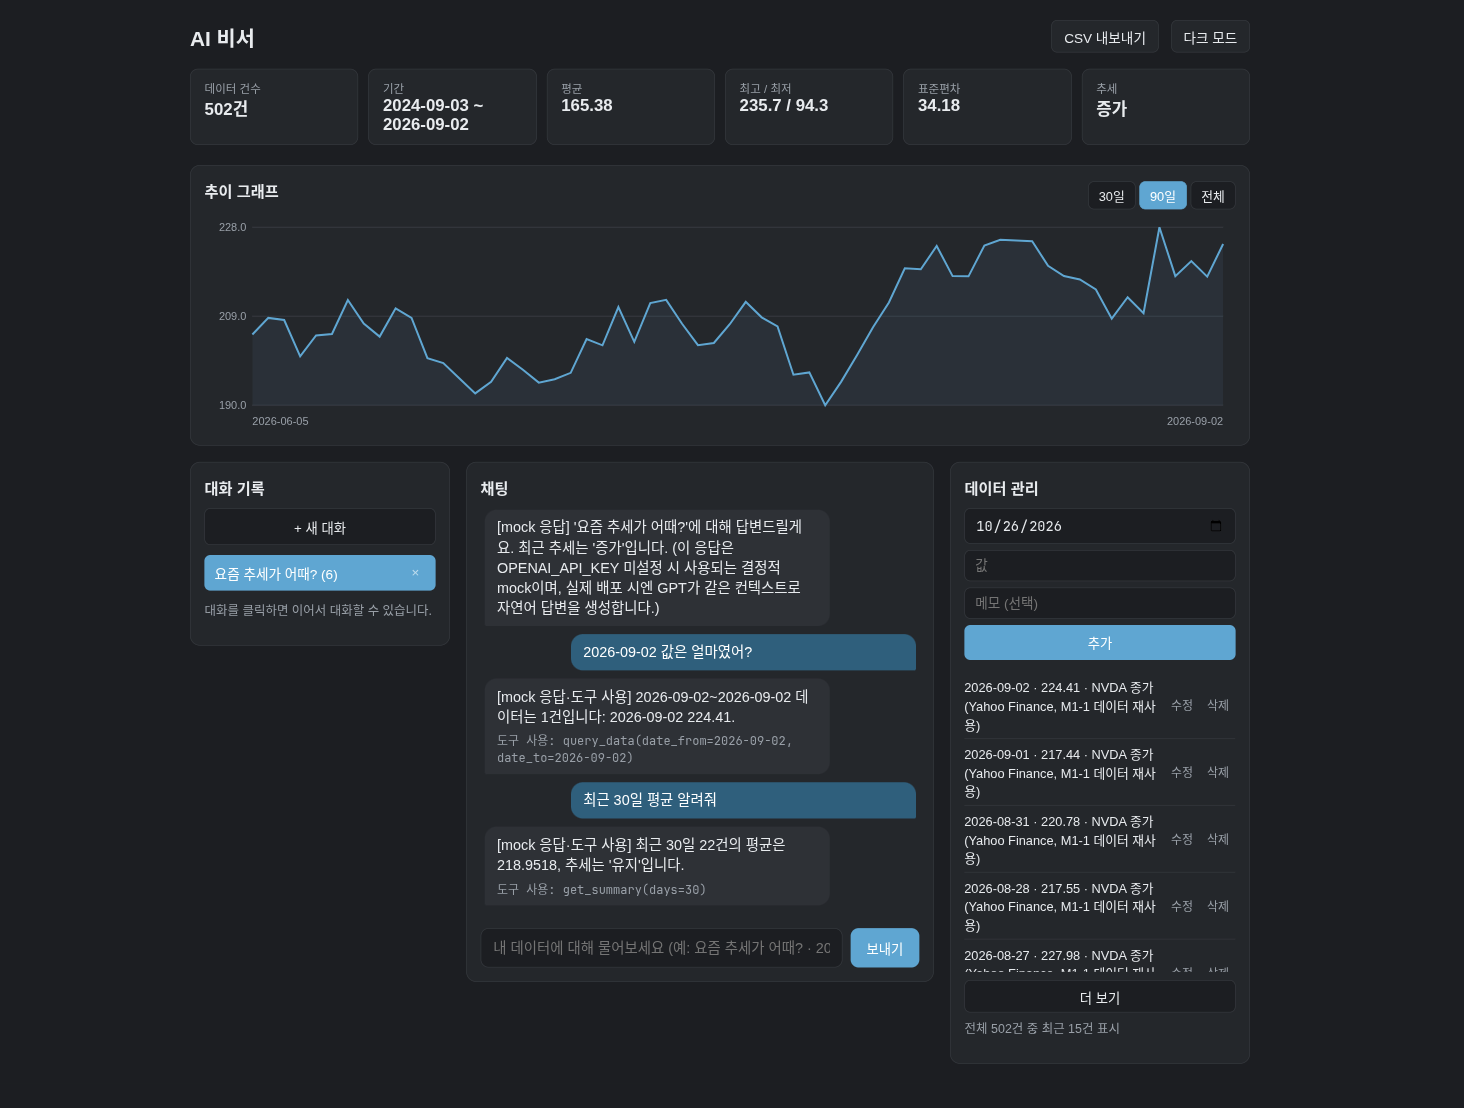
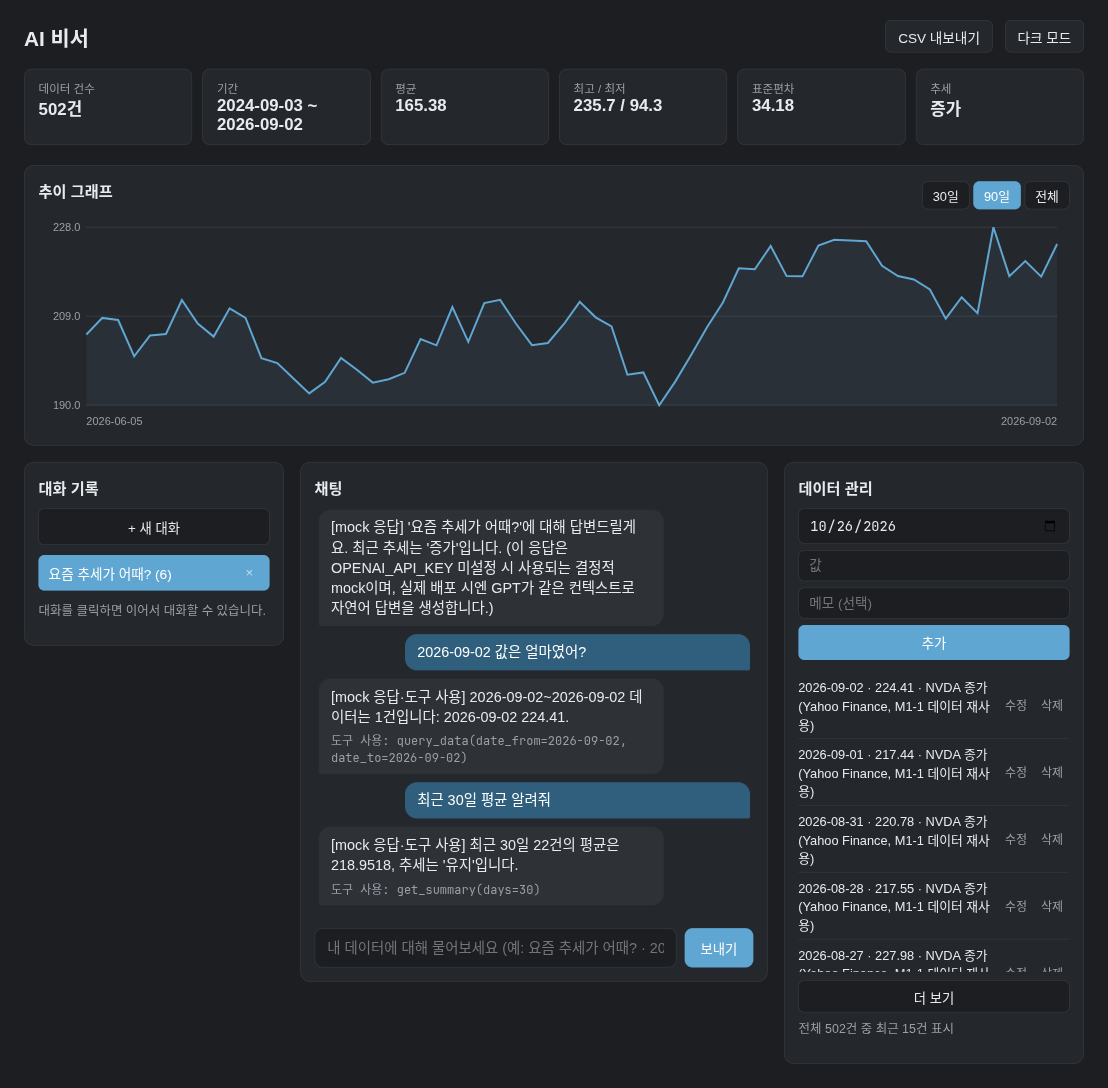
docs: README 눈검수 반영 — 로고 흰 타일, 다크 모드 캡처 폭, 휴대폰 첫 화면 새 이름
GitHub 화면에서 직접 보고 고쳤다.
- 로고: 투명 배경의 남색 아이콘이 GitHub 다크 테마에서 묻혔다 → 흰 둥근 타일(앱 아이콘 꼴).
- 07 다크 모드 캡처가 스크롤바까지 넣어 잘려 옆 칸(06)보다 넓었다 → 같은 영역(1108×1088)으로.
- 휴대폰 첫 화면: 같은 파일 이름이라 GitHub 가 옛 긴 그림을 캐시로 보여 줬다 →
  05-모바일-첫화면.png 로 이름을 바꿨다.

diff --git a/captures/README.md b/captures/README.md
@@ -9,7 +9,7 @@
 | [`02-데이터-추가-수정.png`](02-데이터-추가-수정.png) | 화면에서 1건 추가 → 502건→503건·그래프 끝점 갱신, 다른 행은 [수정] 을 눌러 입력칸이 열린 상태 |
 | [`03-대화-불러오기.png`](03-대화-불러오기.png) | 새 대화를 하나 더 만든 뒤 목록에서 앞 대화를 눌러 메시지 4개를 다시 불러온 화면 |
 | [`04-swagger-ui.png`](04-swagger-ui.png) | `/docs` — data 5 · conversations 4 · chat 1 · health 1 |
-| [`05-모바일.png`](05-모바일.png) | 390×844 휴대폰 첫 화면 — 요약 카드 2열, 그래프, 그 아래 채팅 |
+| [`05-모바일-첫화면.png`](05-모바일-첫화면.png) | 390×844 휴대폰 첫 화면 — 요약 카드 2열, 그래프, 그 아래 채팅 |
 | [`09-모바일-채팅.png`](09-모바일-채팅.png) | 390×844 휴대폰 채팅 — 질문·답·도구 사용 줄, 아래로 대화 기록 |
 | [`06-도구사용-답변.png`](06-도구사용-답변.png) | (보너스 Function Calling) 「2026-09-02 값은 얼마였어?」 → query_data 로 224.41, 「최근 30일 평균 알려줘」 → get_summary(days=30) — 답 아래 「도구 사용」 줄 |
 | [`07-다크모드.png`](07-다크모드.png) | (보너스) 다크 모드 — 같은 화면을 어두운 색으로 |
